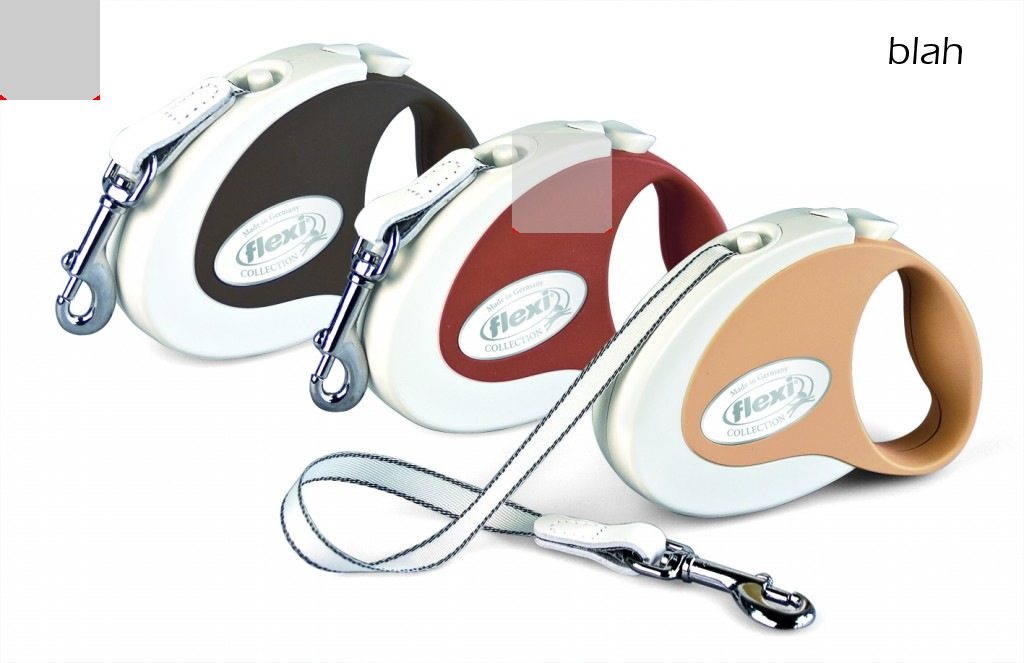
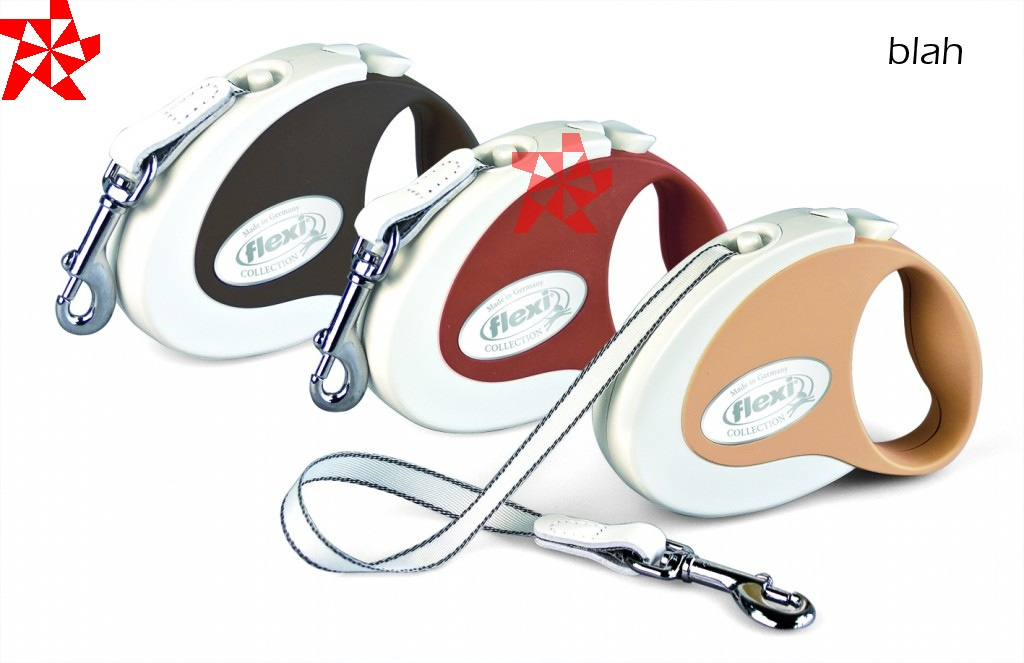
figured out star inner polyhedra

Changed region(s): [[0.0, 0.0, 0.125, 0.1508], [0.5, 0.181, 0.625, 0.362]]

diff --git a/wideimageext/WideImageWrapper.class.php b/wideimageext/WideImageWrapper.class.php
@@ -297,18 +297,19 @@ class WideImageWrapper {
 		// 13. R (cos S - sin S / tan A) = Ri
 		// 
 		// get half of angles here so we don't need to later
-		$angleArmpit = deg2rad( 180 * (float)($num_points - 2) ) / 2;
+		$angleArmpit = deg2rad( 180 * (float)($num_points - 2) / (float)$num_points ) / 2;
 		// interior angles of star = 360 / num_points
 		$angleStar = deg2rad( 360 / (float)$num_points ) / 2;
 		// r_x = r * sin(interior) * [ 1 / tan(interior) - 1 / tan(armpit)]
-		$rInner = $r * (cos($angleStar) - sin($angleStar) / tan($angleArmpit));
+		$rInner =  $r * (cos($angleStar) - sin($angleStar) / tan($angleArmpit));
 		pbug($angleArmpit, $angleStar, $r, $rInner, cos($angleStar), sin($angleStar), tan($angleArmpit));
-		$innerPoints = GD_Utils::radial_polygon($num_points, $rInner, $angle+0.5, $x, $y);
-
-		$this->canvas->$drawingMethod( $points, $num_points, $color );
-		$this->canvas->$drawingMethod( $innerPoints, $num_points, GD_Utils::rgba('CCCCCC') );
+		$innerPoints = GD_Utils::radial_polygon($num_points, $rInner, $angle+(1.0/((float)$num_points * 2.0)), $x, $y);
 
 		/*
+		$this->canvas->$drawingMethod( $points, $num_points, $color );
+		$this->canvas->$drawingMethod( $innerPoints, $num_points, GD_Utils::rgba('CCCCCC') );
+		*/
+	
 		// interleave
 		$istop = $num_points * 2; // since the point array is flattened, it'll have n*2 items
 		$newPoints = array();
@@ -321,7 +322,7 @@ class WideImageWrapper {
 			$newPoints []= $innerPoints[$i+1];
 		}
 		$this->canvas->$drawingMethod( $newPoints, $num_points * 2, $color );
-		*/
+		
 		return $returnPoints ? $points : $this;
 	}
 	function star_even($num_points, $r, $x, $y, $angle, $color, $drawingMethod, $returnPoints = false) {

diff --git a/wideimagetest.php b/wideimagetest.php
@@ -241,6 +241,8 @@ $wrapper
 		->text('7', /*x*/'center', /*y*/'middle')
 	->star(6, /*r*/'100', /*x*/'right - 100', /*y*/'middle', /*color*/'C622F6')
 		->text('8', /*x*/'right - 100', /*y*/'middle')
+	->star(9, /*r*/'50', /*x*/'25%', /*y*/'75%', /*color*/'F60000')
+		->text('9', /*x*/'25%', /*y*/'75%')
 	->save('wideimagetest-wrapper-shapes.jpg')
 	;
 
